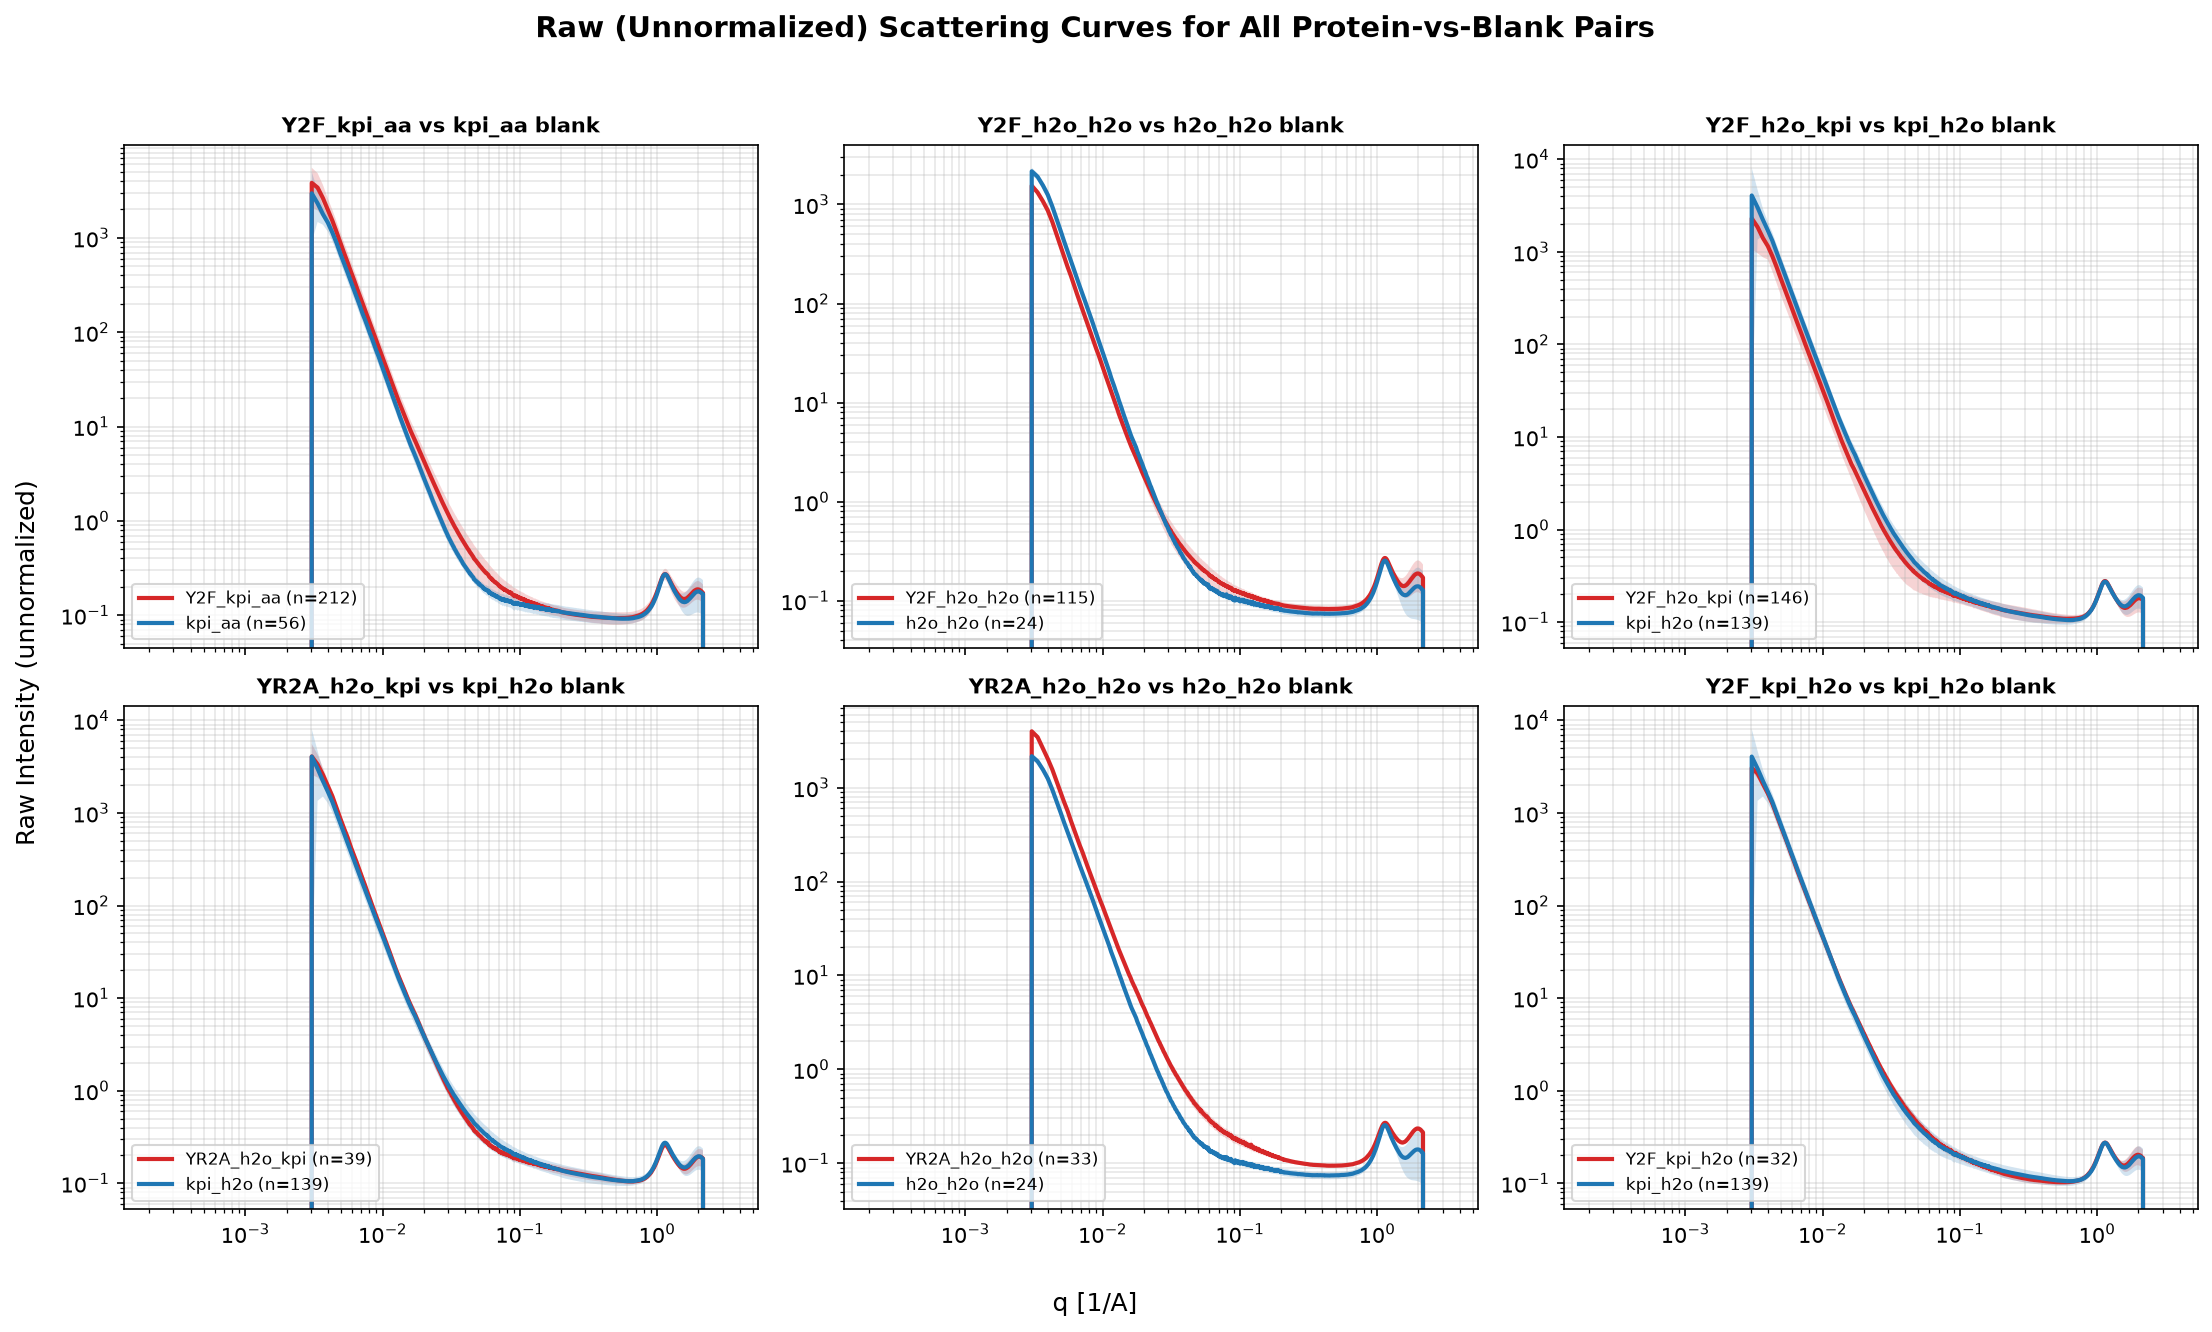
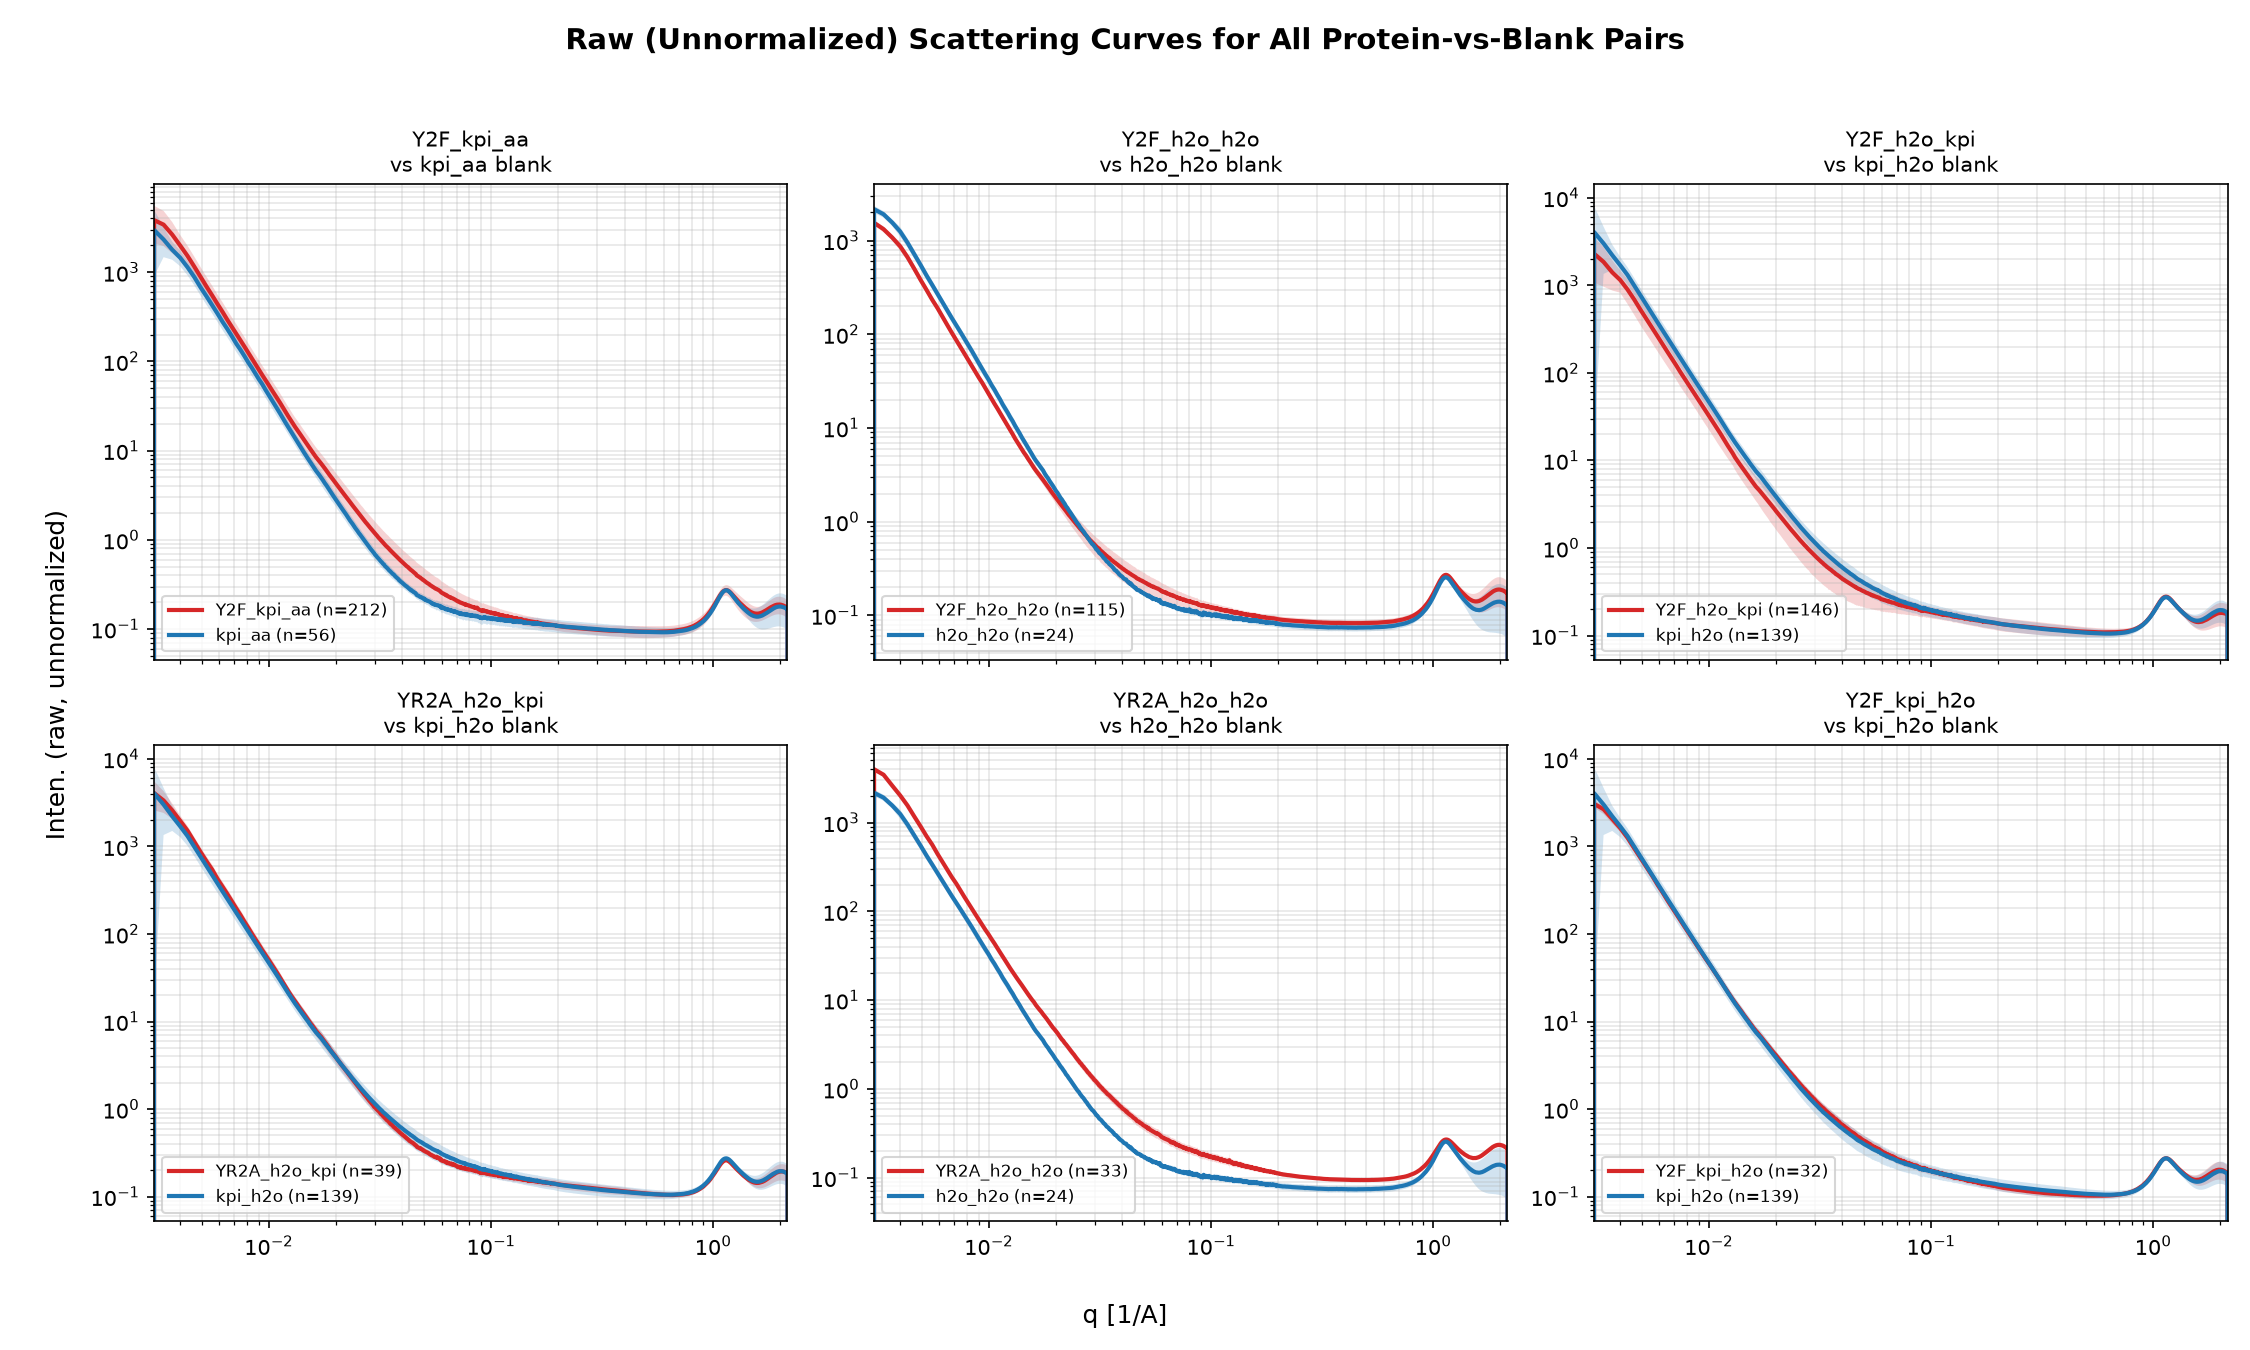
Integrate unnormalized plots into protein_vs_buffer.py for consistent styling
- Add plot_unnormalized_overview() function to protein_vs_buffer.py
  Generates sample_blank_curves__raw_unnormalized.png with all 6 pairs
  Uses consistent styling with existing normalization plots

- Add plot_normalization_comparison() function to protein_vs_buffer.py
  Shows one pair (strongest signal) in all 4 states: raw + 3 norms
  Demonstrates the dramatic transformation after normalization
  Generates y2f_h2o_kpi_vs_kpi_h2o_blank__normalization_comparison.png

- Update main() to call both unnormalized and standard analysis functions
  All plots now generated from single protein_vs_buffer.py script
  Ensures consistent styling across all normalization comparisons

- Remove standalone plot_unnormalized.py (functionality now integrated)

- Update README_UNNORMALIZED.md with instructions for regenerating plots

All unnormalized plots are in 01_normalization_overview/ folder alongside
normalized versions for easy comparison

diff --git a/protein_vs_buffer.py b/protein_vs_buffer.py
@@ -569,7 +569,120 @@ def compare_normalizations(title, protein_name, blank_name):
     return results
 
 
+def plot_unnormalized_overview(pairs, out_dir="figures"):
+    """Plot all protein-vs-blank pairs with NO normalization for comparison."""
+    os.makedirs(out_dir, exist_ok=True)
+
+    fig, axes = plt.subplots(2, 3, figsize=(15, 9), sharex=True)
+    axes = axes.flatten()
+
+    for ax, (title, protein_name, blank_name) in zip(axes, pairs):
+        # Load raw data WITHOUT any normalization
+        protein = cg.load_group(protein_name)
+        blank = cg.load_group(blank_name)
+
+        keep_p = cg.kept_mask(protein)
+        keep_b = cg.kept_mask(blank)
+
+        qs = protein.qs
+        I_p = protein.Is[keep_p].mean(axis=0)
+        I_b = blank.Is[keep_b].mean(axis=0)
+        std_p = protein.Is[keep_p].std(axis=0)
+        std_b = blank.Is[keep_b].std(axis=0)
+
+        ax.plot(qs, I_p, color="tab:red", linewidth=2, label=f"{protein_name} (n={keep_p.sum()})")
+        ax.fill_between(qs, I_p - std_p, I_p + std_p, color="tab:red", alpha=0.2, linewidth=0)
+        ax.plot(qs, I_b, color="tab:blue", linewidth=2, label=f"{blank_name} (n={keep_b.sum()})")
+        ax.fill_between(qs, I_b - std_b, I_b + std_b, color="tab:blue", alpha=0.2, linewidth=0)
+
+        ax.set_xscale("log")
+        ax.set_yscale("log")
+        ax.set_title(title.replace(" vs ", "\nvs "), fontsize=10)
+        ax.legend(fontsize=8, loc="lower left")
+        ax.grid(True, alpha=0.3, which="both")
+        ax.set_xlim(src.det.FULL_QRANGE)
+
+    fig.text(0.5, 0.02, "q [1/A]", ha="center", fontsize=12)
+    fig.text(0.02, 0.5, "Inten. (raw, unnormalized)", va="center", rotation="vertical", fontsize=12)
+    fig.suptitle("Raw (Unnormalized) Scattering Curves for All Protein-vs-Blank Pairs",
+                 fontsize=14, fontweight="bold", y=0.98)
+    fig.tight_layout(rect=[0.03, 0.05, 1, 0.96])
+
+    out_path = os.path.join(out_dir, "sample_blank_curves__raw_unnormalized.png")
+    fig.savefig(out_path, dpi=150)
+    print(f"Saved {out_path}")
+
+
+def plot_normalization_comparison(title, protein_name, blank_name, out_dir="figures"):
+    """Show one pair in all 4 states: raw + 3 normalizations (matching protein_vs_buffer.py style)."""
+    os.makedirs(out_dir, exist_ok=True)
+
+    fig, axes = plt.subplots(1, 4, figsize=(16, 4), sharex=True)
+
+    # --- Panel 1: Raw unnormalized ---
+    protein = cg.load_group(protein_name)
+    blank = cg.load_group(blank_name)
+    keep_p = cg.kept_mask(protein)
+    keep_b = cg.kept_mask(blank)
+
+    qs = protein.qs
+    I_p_raw = protein.Is[keep_p].mean(axis=0)
+    I_b_raw = blank.Is[keep_b].mean(axis=0)
+    std_p_raw = protein.Is[keep_p].std(axis=0)
+    std_b_raw = blank.Is[keep_b].std(axis=0)
+
+    axes[0].plot(qs, I_p_raw, color="tab:red", linewidth=2.5, label=protein_name)
+    axes[0].fill_between(qs, I_p_raw - std_p_raw, I_p_raw + std_p_raw, color="tab:red", alpha=0.2)
+    axes[0].plot(qs, I_b_raw, color="tab:blue", linewidth=2.5, label=blank_name)
+    axes[0].fill_between(qs, I_b_raw - std_b_raw, I_b_raw + std_b_raw, color="tab:blue", alpha=0.2)
+    axes[0].set_title("RAW (unnormalized)\n[Very different scales!]", fontweight="bold", fontsize=11)
+    axes[0].legend(fontsize=9, loc="lower left")
+
+    # --- Panels 2-4: Three normalized versions ---
+    for i, (norm_name, norm_label) in enumerate([
+        ("linear_saxs", "linear_saxs norm"),
+        ("neutral", "neutral norm"),
+        ("i0", "i0 norm"),
+    ]):
+        qs_p, Is_p, _, _ = cg.kept_frames(cg.load_group(protein_name), norm=norm_name)
+        qs_b, Is_b, _, _ = cg.kept_frames(cg.load_group(blank_name), norm=norm_name)
+
+        I_p_mean = Is_p.mean(axis=0)
+        I_b_mean = Is_b.mean(axis=0)
+        std_p = Is_p.std(axis=0)
+        std_b = Is_b.std(axis=0)
+
+        axes[i+1].plot(qs_p, I_p_mean, color="tab:red", linewidth=2.5, label=protein_name)
+        axes[i+1].fill_between(qs_p, I_p_mean - std_p, I_p_mean + std_p, color="tab:red", alpha=0.2)
+        axes[i+1].plot(qs_b, I_b_mean, color="tab:blue", linewidth=2.5, label=blank_name)
+        axes[i+1].fill_between(qs_b, I_b_mean - std_b, I_b_mean + std_b, color="tab:blue", alpha=0.2)
+        axes[i+1].set_title(f"{norm_label}\n[Curves now comparable]", fontweight="bold", fontsize=11)
+        axes[i+1].legend(fontsize=9, loc="lower left")
+
+    for ax in axes:
+        ax.set_xscale("log")
+        ax.set_yscale("log")
+        ax.set_xlim(src.det.FULL_QRANGE)
+        ax.grid(True, alpha=0.3, which="both")
+
+    fig.text(0.5, 0.02, "q [1/A]", ha="center", fontsize=12)
+    fig.text(0.02, 0.5, "Intensity", va="center", rotation="vertical", fontsize=12)
+    fig.suptitle(f"Why Normalization Matters: {title}", fontsize=13, fontweight="bold", y=0.98)
+    fig.tight_layout(rect=[0.03, 0.05, 1, 0.96])
+
+    out_path = os.path.join(out_dir, title.lower().replace(" ", "_") + "__normalization_comparison.png")
+    fig.savefig(out_path, dpi=150)
+    print(f"Saved {out_path}")
+
+
 if __name__ == "__main__":
+    # Plot unnormalized overview for all pairs
+    plot_unnormalized_overview(PAIRS)
+
+    # Plot detailed normalization comparison for the strongest signal pair
+    plot_normalization_comparison(PAIRS[2][0], PAIRS[2][1], PAIRS[2][2])
+
+    # Run the standard analysis for all pairs
     for title, protein_name, blank_name in PAIRS:
         compare_normalizations(title, protein_name, blank_name)
     plt.show()

diff --git a/figures/01_normalization_overview/README_UNNORMALIZED.md b/figures/01_normalization_overview/README_UNNORMALIZED.md
@@ -144,21 +144,38 @@ Result: Cleaner comparison; no assumptions about low-q
 
 ---
 
-## Generating the Unnormalized Plot
+## The Figures in This Folder
 
-### Option A: Use Existing Figures
-The figures in this folder (`sample_blank_curves__i0.png`, `sample_blank_curves__linear_saxs.png`, `sample_blank_curves__neutral.png`) already show **normalized** curves. To see **unnormalized** curves, you would need to run:
+All plots are generated from `protein_vs_buffer.py`, which includes integrated functions for plotting both normalized and unnormalized data using consistent styling:
+
+**Raw/Unnormalized figures:**
+- `sample_blank_curves__raw_unnormalized.png` — All 6 pairs without any normalization
+  - Shows why normalization is critical: curves almost completely overlap
+  - Demonstrates that protein signal is invisible in raw data
+  
+- `y2f_h2o_kpi_vs_kpi_h2o_blank__normalization_comparison.png` — Strongest signal pair in all 4 states
+  - Panel 1: RAW (unnormalized) with very different scales
+  - Panel 2: linear_saxs normalized
+  - Panel 3: neutral normalized  
+  - Panel 4: i0 normalized
+  - Shows the dramatic transformation that makes protein signal visible
+
+**Normalized figures (for comparison across methods):**
+- `sample_blank_curves__i0.png` — All 6 pairs, i0 normalized
+- `sample_blank_curves__linear_saxs.png` — All 6 pairs, linear_saxs normalized
+- `sample_blank_curves__neutral.png` — All 6 pairs, neutral normalized
+
+## Regenerating These Plots
+
+To regenerate all unnormalized and normalization comparison plots, run:
 
 ```bash
-python3 /path/to/spider-silk-max4/plot_unnormalized.py
+cd /path/to/spider-silk-max4
+source venv/bin/activate
+python protein_vs_buffer.py
 ```
 
-This generates:
-- `sample_blank_curves__raw_unnormalized.png` — All 6 pairs in raw state
-- `normalization_comparison__y2f_h2o_kpi.png` — One pair in all 4 states (side-by-side)
-
-### Option B: Manual Inspection
-The raw intensity data is in the HDF5 files under `data/raw/scan-<id>*.h5` and `data/process/azint/scan-<id>*_integrated.h5`. If you load and plot these without any normalization, you'll see the scaling differences immediately.
+The plots will be saved to `figures/` and the unnormalized plots will be moved to `figures/01_normalization_overview/`
 
 ---
 
